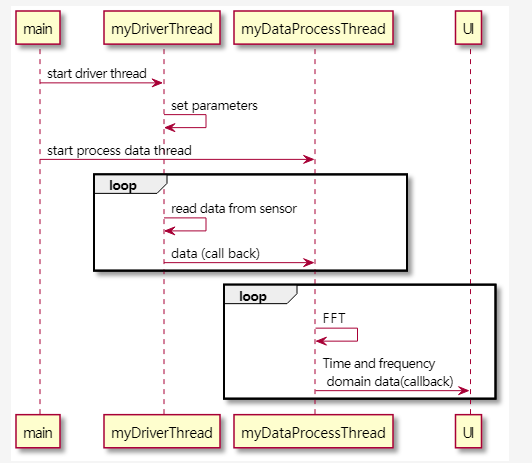
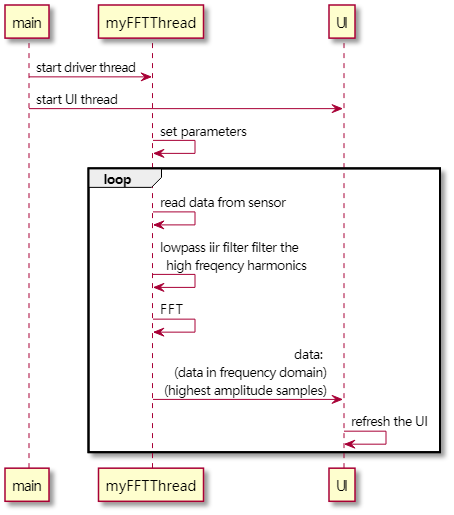
content edit

diff --git a/files/dataProcSequenceDiagram.md b/files/dataProcSequenceDiagram.md
@@ -1,17 +1,15 @@
 @startuml
-
-main -> myDriverThread : start driver thread
-myDriverThread -> myDriverThread : set parameters
-main -> myDataProcessThread : start process data thread
-
-loop
-    myDriverThread -> myDriverThread : read data from sensor
-    myDriverThread -> myDataProcessThread : data (call back)
-end
+main -> myFFTThread : start driver thread
+main -> UI : start UI thread
+myFFTThread -> myFFTThread : set parameters
 
 loop
-myDataProcessThread -> myDataProcessThread : FFT
-myDataProcessThread -> UI : Time and frequency \n domain data(callback)
+    myFFTThread -> myFFTThread : read data from sensor
+    myFFTThread -> myFFTThread : lowpass iir filter filter the  \r high freqency harmonics 
+    myFFTThread -> myFFTThread : FFT
+    myFFTThread -> UI : data: \r (data in frequency domain)\r (highest amplitude samples)
+    UI-> UI: refresh the UI
 end
+
 
 @enduml
